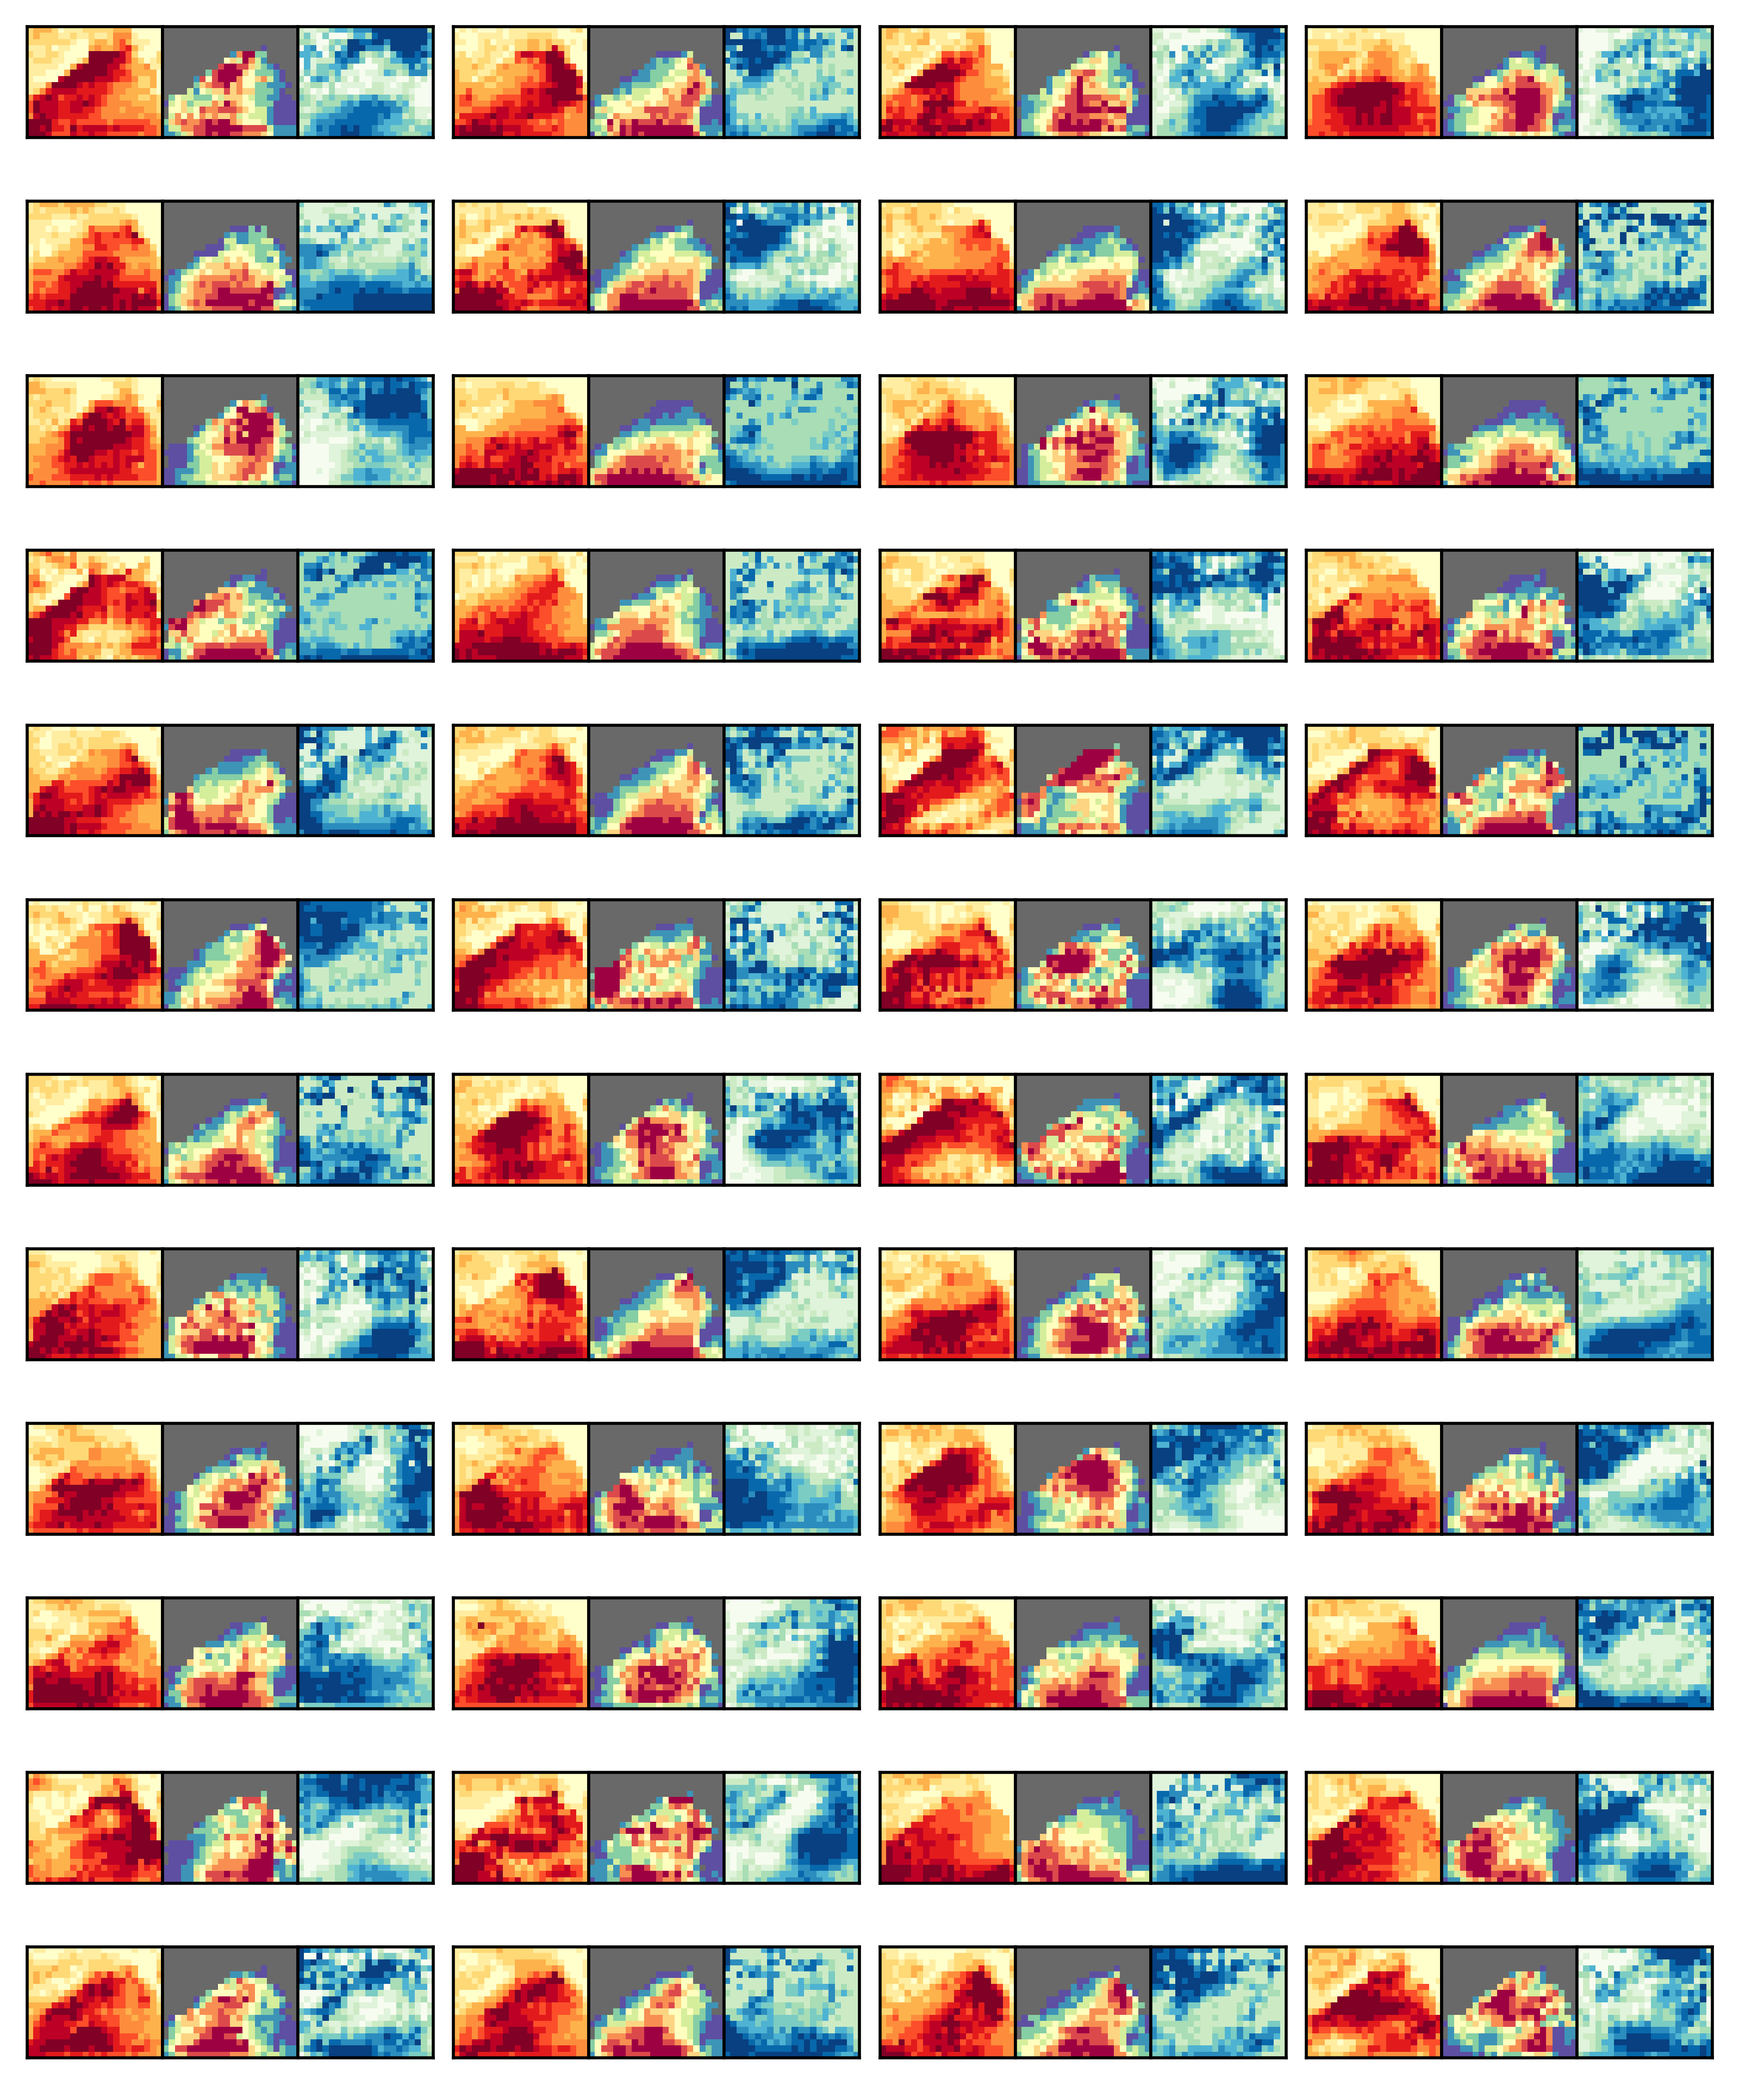
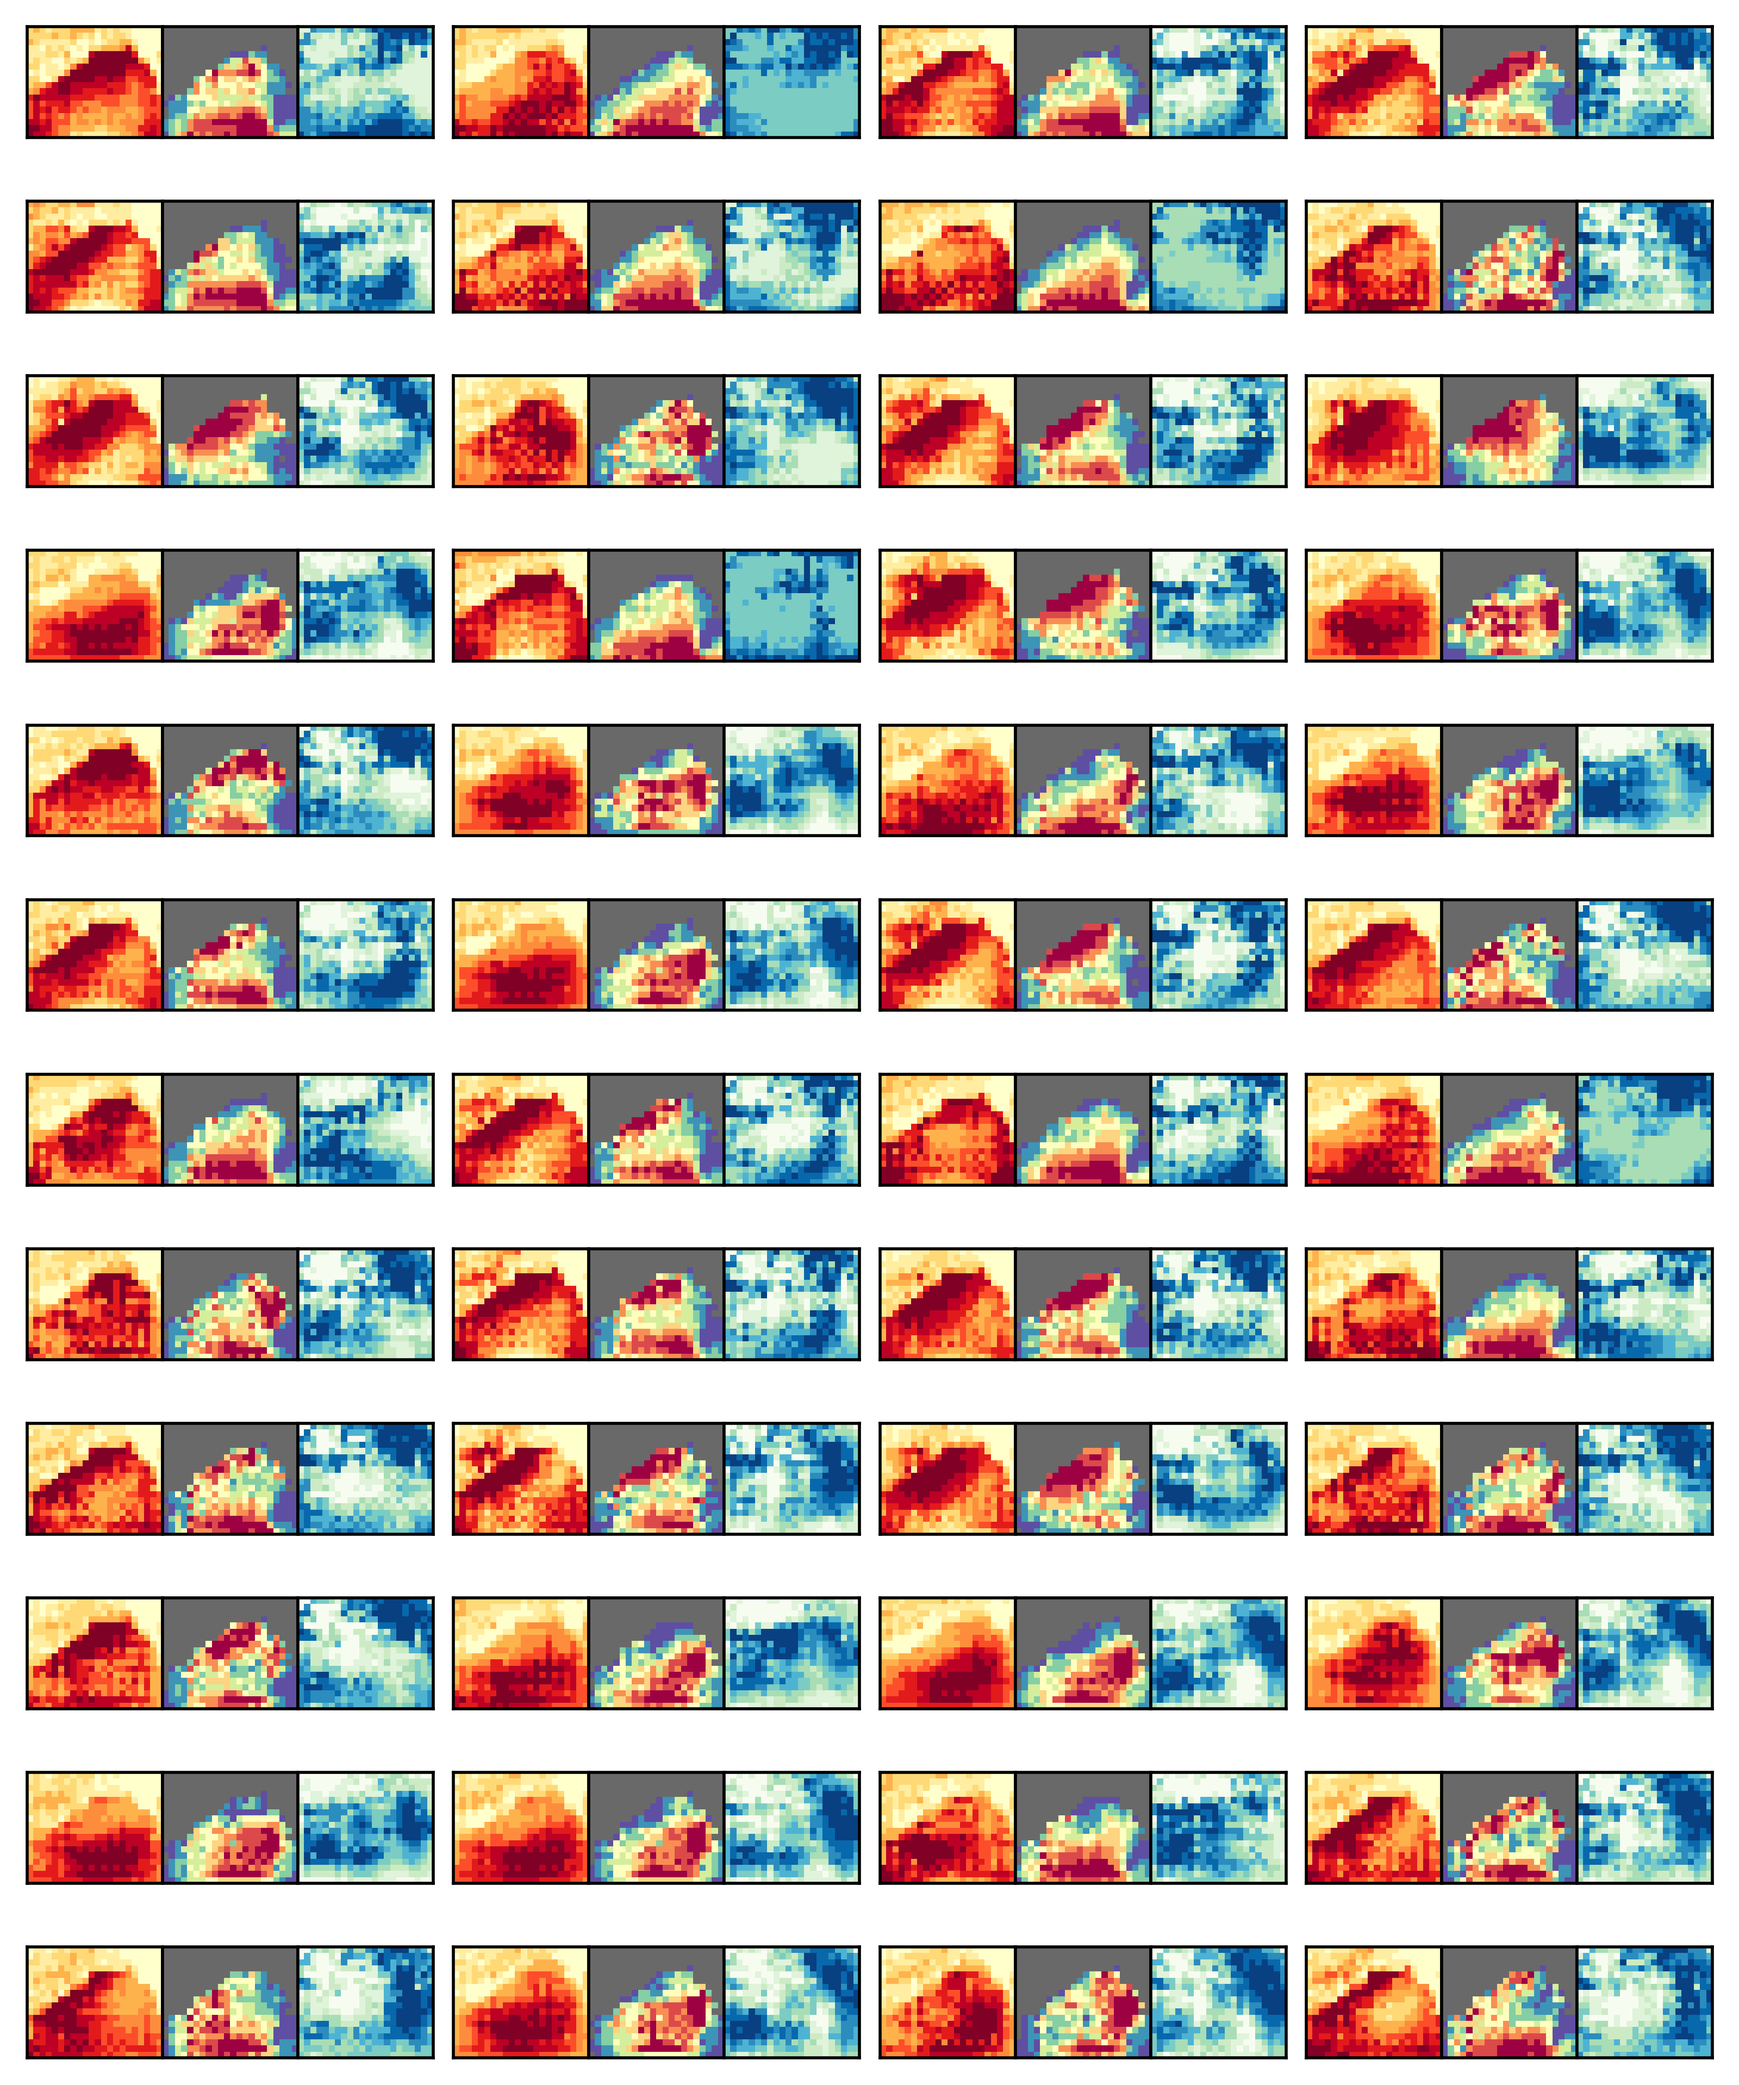
changed extremal coefficient calculation

diff --git a/evtGAN/DCGAN.py b/evtGAN/DCGAN.py
@@ -288,7 +288,7 @@ def chi(data, sample_inds):
     data = tf.reshape(data, [n, h * w])
     data = tf.gather(data, sample_inds, axis=1)
     data = data * tf.constant(.999)  # can't have 1s in exponential quantile function
-    exp = inv_exp(data)
+    exp = inv_unit_frechet(data)
 
     chis = tf.TensorArray(tf.float32, size=0, dynamic_size=True)
     counter = tf.constant(0)
@@ -307,6 +307,13 @@ def inv_exp(uniform):
     tf.debugging.Assert(tf.reduce_all(uniform < 1), ['Cannot perform inverse exponential when tensor contains values exceeding 1.'])
     exp_distributed = -tf.math.log(1 - uniform)
     return exp_distributed
+
+
+def inv_unit_frechet(uniform):
+    """Inverse of unit Fréchet quantile function."""
+    tf.debugging.Assert(tf.reduce_all(uniform < 1), ['Cannot perform inverse frechet when tensor contains values exceeding 1.'])
+    inv_frechet_distributed = 1 / (-tf.math.log(uniform))
+    return inv_frechet_distributed
 
 
 def chi_ij(exp_x, exp_y):
